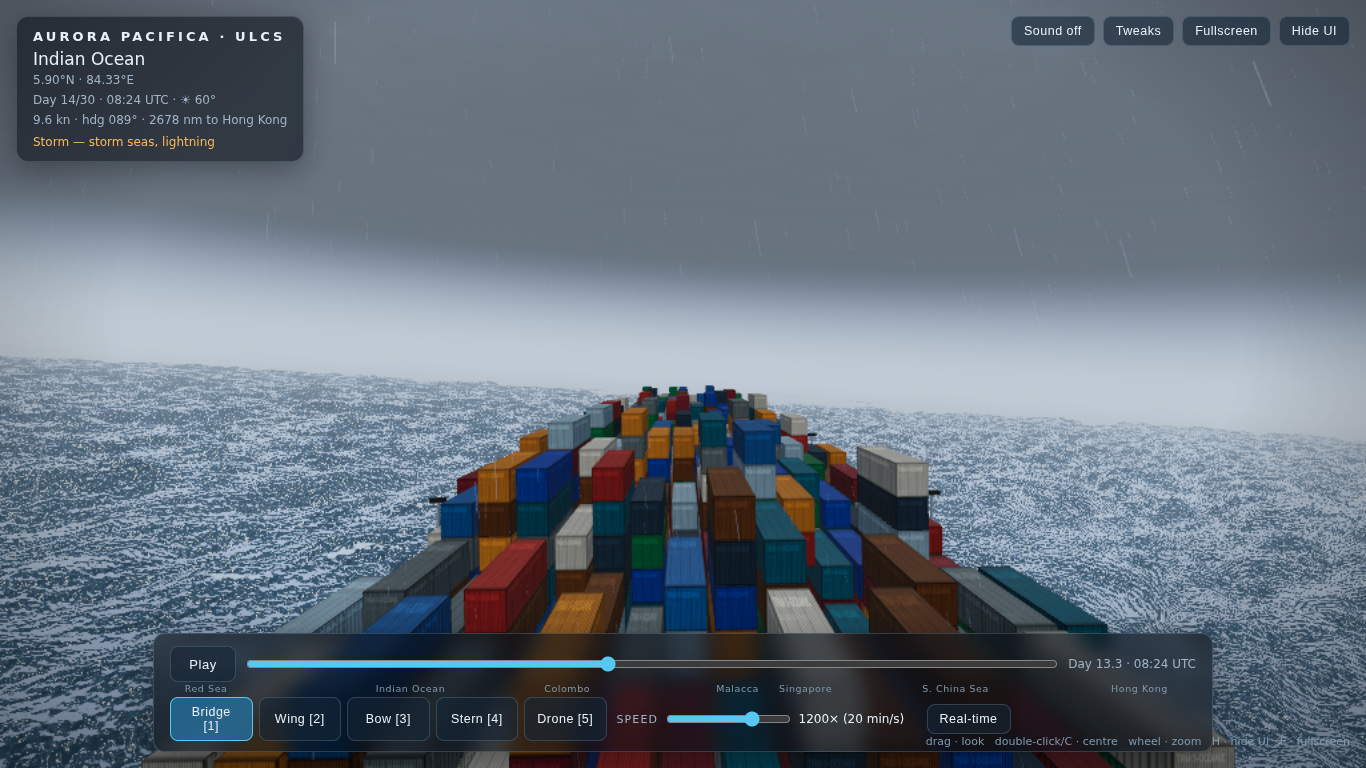
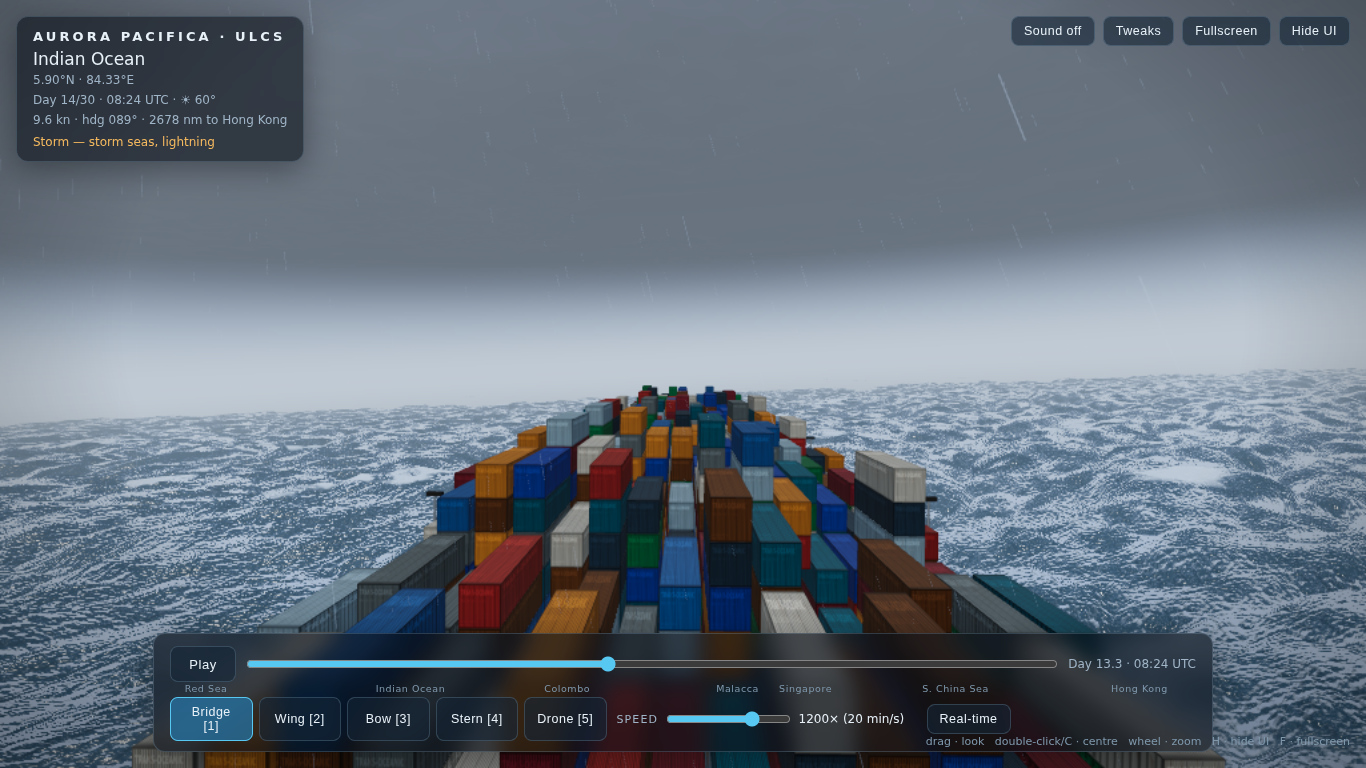
Fix depthTexture crash, tiling jumps, and ship/wave coupling
- Never toggle sun castShadow at runtime (three r180 ShadowNode
  shadowMap is null until setup; toggling crashed real-GPU sessions
  with 'reading depthTexture of null'). Gate with autoUpdate instead,
  and fall back to a plain render if post throws.
- Detail sampling is wrap-invariant again: exact 90-degree axis swap
  at scale 1 replaces the 1.37x resample that jumped on every scroll
  offset wrap; foam breakup uses unscaled octave-0 coords.
- Water now streams past the hull: frame-0 drift layer scrolled by
  travelled metres, bow-wave V, streamed prop wash.
- Ship rides the shader swell: shared src/sim/swell.js sampled at
  bow/stern/port/starboard for pitch/roll/heave; water inside the hull
  footprint follows ship heave; spray follows bow vertical velocity.
- Regression suite pins the shadow toggle and swell behaviour.

Changed region(s): [[0.0, 0.2812, 1.0, 1.0], [0.0, 0.25, 0.369, 0.4375], [0.3075, 0.9688, 0.5842, 1.0]]

diff --git a/src/gfx/ocean.js b/src/gfx/ocean.js
@@ -6,6 +6,7 @@ import {
   smoothstep, pow, exp, max, sin, cos, sqrt, length, fract, floor, abs,
   positionLocal, positionWorld, cameraPosition, varyingProperty, select,
 } from 'three/tsl';
+import { SWELL_WAVES } from '../sim/swell.js';
 
 export const ATLAS_N = 128, ATLAS_FRAMES = 64, ATLAS_GRID = 8, ATLAS_PERIOD = 16;
 // The bake's dominant wavelength is ~0.7 of a tile. These world tile sizes put
@@ -30,6 +31,8 @@ export function createOceanUniforms() {
     scatterColor: uniform(new THREE.Color(0.02, 0.16, 0.16)),
     foamAmt: uniform(1),
     wakeAmt: uniform(1),
+    travelM: uniform(0),      // metres travelled through the water (drift layer)
+    shipHeave: uniform(0),    // ship's heave, so water under the hull follows it
     seaTime: uniform(0),
   };
 }
@@ -106,6 +109,10 @@ export function createOcean(skyU, atmosphereFn, atlasTexture) {
     const fr = fract(U.framePhase);
     return mix(sampleFrame(sxz, tileM, f0), sampleFrame(sxz, tileM, f1), fr);
   });
+  // Frame-0 sample: a pattern frozen to the water itself. Scrolled by the
+  // ship's travelled distance it streams past the hull at ship speed, which
+  // is the cue that sells forward motion in open ocean.
+  const sampleStatic = Fn(([sxz, tileM]) => sampleFrame(sxz, tileM, float(0.0)));
 
   // Ship-frame xz -> sampled space (x east-ish, y forward), per octave.
   const toSampled = (xz, oct) => {
@@ -174,10 +181,7 @@ export function createOcean(skyU, atmosphereFn, atlasTexture) {
     const swellScale = float(0.45).add(U.fftBlend.mul(0.55))
       .mul(float(1.0).div(float(1.0).add(pow(dist.div(1800.0), 2.0))));
     const swellCoords = toSampled(local.xz, 0);
-    const swellWaves = [
-      [0.98, -0.20, 265, 0.34], [0.91, 0.42, 171, 0.21], [0.76, -0.65, 108, 0.12],
-    ];
-    for (const [dx, dz, wl, a] of swellWaves) {
+    for (const { dx, dz, wl, amp: a } of SWELL_WAVES) {
       const k = (2 * Math.PI) / wl, w = Math.sqrt(9.81 * k);
       const ph = swellCoords.x.mul(dx * k).add(swellCoords.y.mul(dz * k)).sub(U.seaTime.mul(w));
       hSum.addAssign(sin(ph).mul(a).mul(swellScale));
@@ -185,8 +189,14 @@ export function createOcean(skyU, atmosphereFn, atlasTexture) {
       dispS.addAssign(vec2(dx, dz).mul(cos(ph).mul(a * 0.55).mul(swellScale)));
     }
 
-    const h = hSum.mul(U.amp);
-    const dispShip = sampledVecToShip(dispS.mul(U.amp));
+    // Hull interaction: inside the hull footprint the surface is pulled to
+    // the ship's own heave (and chop is damped), so waves meet the hull at
+    // its waterline instead of poking through the sides and deck.
+    const hullMask = float(1.0).sub(smoothstep(30.0, 44.0, abs(local.x)))
+      .mul(smoothstep(-178.0, -164.0, local.z))
+      .mul(float(1.0).sub(smoothstep(164.0, 178.0, local.z)));
+    const h = mix(hSum.mul(U.amp), U.shipHeave, hullMask.mul(0.85));
+    const dispShip = sampledVecToShip(dispS.mul(U.amp).mul(float(1.0).sub(hullMask.mul(0.7))));
     const nS = normalize(vec3(slope.x.mul(U.amp).negate(), 1.0, slope.y.mul(U.amp).negate()));
     const nShip2 = sampledVecToShip(vec2(nS.x, nS.z));
     vNorm.assign(normalize(vec3(nShip2.x, nS.y, nShip2.y)));
@@ -201,25 +211,41 @@ export function createOcean(skyU, atmosphereFn, atlasTexture) {
     const dist = length(viewVec);
     const V = normalize(viewVec);
 
-    // Per-pixel micro detail from the smallest FFT octave, sampled twice
-    // (rotated) so tiling never reads as a regular dot/stipple pattern.
+    // Per-pixel micro detail from the two smaller FFT octaves. The second
+    // sample is the 76 m octave with axes swapped (an exact 90-degree
+    // rotation at scale 1): resampling wrapped coordinates by a
+    // non-integer factor (the old 1.37x) broke tile periodicity and made
+    // the detail jump every time the scroll offset wrapped.
     const sxz = toSampled(wp.xz, 2);
     const epsD = float(0.45);
     const hc = sampleFFT(sxz, tiles[2]);
     const hx = sampleFFT(sxz.add(vec2(epsD, 0.0)), tiles[2]);
     const hz = sampleFFT(sxz.add(vec2(0.0, epsD)), tiles[2]);
-    const sxzR = vec2(sxz.y, sxz.x.negate()).mul(1.37).add(vec2(31.7, 11.3));
-    const hcR = sampleFFT(sxzR, tiles[2]);
-    const hxR = sampleFFT(sxzR.add(vec2(epsD, 0.0)), tiles[2]);
-    const hzR = sampleFFT(sxzR.add(vec2(0.0, epsD)), tiles[2]);
     const slopeA = vec2(hx.r.sub(hc.r), hz.r.sub(hc.r)).div(epsD);
-    const slopeB = vec2(hzR.r.sub(hcR.r), hxR.r.sub(hcR.r).negate()).div(epsD);
-    const mSlopeS = slopeA.add(slopeB.mul(0.8))
+    const sxz1 = toSampled(wp.xz, 1);
+    const sxzR = vec2(sxz1.y, sxz1.x.negate()).add(vec2(31.7, 11.3));
+    const eps1 = float(2.4);
+    const hcR = sampleFFT(sxzR, tiles[1]);
+    const huR = sampleFFT(sxzR.add(vec2(eps1, 0.0)), tiles[1]);
+    const hvR = sampleFFT(sxzR.add(vec2(0.0, eps1)), tiles[1]);
+    // u = sampled-y, v = -sampled-x  =>  dh/dx = -dh/dv, dh/dy = dh/du.
+    const slopeB = vec2(hvR.r.sub(hcR.r).negate(), huR.r.sub(hcR.r)).div(eps1);
+    const mSlopeS = slopeA.add(slopeB.mul(0.55))
       .mul(OCTAVE_WEIGHTS[2] * 1.7).mul(U.amp).mul(U.fftBlend);
     const mSlope = sampledVecToShip(mSlopeS);
-    const detFade = float(1.0).div(float(1.0).add(dist.div(300.0)));
+    // Advected drift detail: frame-0 pattern scrolled by travelled metres,
+    // so surface texture streams astern past the hull at ship speed.
+    const dCoord = vec2(wp.x, wp.z.sub(U.travelM));
+    const epsDrift = float(1.6);
+    const dcS = sampleStatic(dCoord, tiles[1]);
+    const dxS = sampleStatic(dCoord.add(vec2(epsDrift, 0.0)), tiles[1]);
+    const dzS = sampleStatic(dCoord.add(vec2(0.0, epsDrift)), tiles[1]);
+    const driftSlope = vec2(dxS.r.sub(dcS.r), dzS.r.sub(dcS.r)).div(epsDrift)
+      .mul(0.30).mul(U.fftBlend);
+    const detFade = float(1.0).div(float(1.0).add(pow(dist.div(220.0), 1.5)));
     const N = normalize(vNorm.add(vec3(
-      mSlope.x.negate().mul(detFade), 0.0, mSlope.y.negate().mul(detFade))));
+      mSlope.x.add(driftSlope.x).negate().mul(detFade), 0.0,
+      mSlope.y.add(driftSlope.y).negate().mul(detFade))));
 
     const L = skyU.sunDir;
     const NdotV = clamp(dot(N, V), 0.0, 1.0);
@@ -256,7 +282,7 @@ export function createOcean(skyU, atmosphereFn, atlasTexture) {
       .add(skyCol.mul(fres)).add(spec).add(moonSpec).add(scatter);
 
     // ---- Foam: Jacobian folding + crest breakup (wind-stretched) --------
-    const hcF = sampleFFT(vec2(sxz.x.mul(0.6), sxz.y.mul(0.22)), tiles[2]);
+    const hcF = sampleFFT(toSampled(wp.xz, 0), tiles[0]);
     const noiseBreak = clamp(hcF.r.mul(0.34).add(hcR.r.mul(0.14)).add(0.5), 0.0, 1.15);
     // Baked J assumes unit amplitude; compression deepens as chop is scaled.
     const jEff = float(1.0).sub(float(1.0).sub(vFoamJ).mul(clamp(U.amp, 0.15, 2.4)));
@@ -291,8 +317,18 @@ export function createOcean(skyU, atmosphereFn, atlasTexture) {
     const bowDist = length(wp.xz.sub(vec2(0.0, -158.0)));
     const spray = exp(bowDist.mul(-0.020)).mul(U.wakeAmt)
       .mul(clamp(U.amp.mul(0.55), 0.1, 1.1)).mul(clamp(wakeNoise, 0.3, 1.1));
+    // Bow wave: V arms opening astern from the stem (~19 degrees), broken
+    // up by the advected drift pattern so foam streams along the hull.
+    const bz = wp.z.add(165.0);
+    const bowArmCenter = float(4.0).add(max(bz, 0.0).mul(0.32));
+    const bowArm = float(1.0).sub(smoothstep(2.0, float(10.0).add(max(bz, 0.0).mul(0.02)),
+        abs(hxAbs.sub(bowArmCenter))))
+      .mul(exp(max(bz, 0.0).mul(-0.004)))
+      .mul(smoothstep(0.0, 12.0, bz))
+      .mul(float(1.0).sub(smoothstep(300.0, 360.0, bz)))
+      .mul(clamp(dcS.r.mul(0.5).add(0.75), 0.25, 1.1));
     foam = clamp(foam.add(wake.mul(U.wakeAmt)).add(hullBand.mul(U.wakeAmt).mul(0.85))
-      .add(spray.mul(0.8)), 0.0, 1.0);
+      .add(spray.mul(0.8)).add(bowArm.mul(U.wakeAmt).mul(0.55)), 0.0, 1.0);
 
     const foamCol = skyU.ambient.mul(1.5).add(skyU.sunColor.mul(0.05).mul(NdotL))
       .add(vec3(0.5, 0.55, 0.7).mul(skyU.lightning).mul(0.8));

diff --git a/src/main.js b/src/main.js
@@ -11,6 +11,7 @@ import { sunPosition, moonPosition, enuDirToShipFrame, enuOffsetToShipFrame } fr
 import { sampleWeather, lightningPulse } from './sim/weather.js';
 import { buildTraffic, trafficAt } from './sim/traffic.js';
 import { motionAt, significantHeightM, BAKE_HS_M } from './sim/shipMotion.js';
+import { swellHeight } from './sim/swell.js';
 import { createSkyUniforms, createSkyDome, makePlaceholderVolume } from './gfx/sky.js';
 import { createOcean, makePlaceholderAtlas, ATLAS_FRAMES, ATLAS_PERIOD } from './gfx/ocean.js';
 import { buildShip, SHIP } from './gfx/ship.js';
@@ -45,6 +46,11 @@ scene.add(camera);
 
 const sunLight = new THREE.DirectionalLight(0xffffff, 3);
 sunLight.castShadow = true;
+// Never toggle castShadow at runtime: three r180 recreates the light's
+// ShadowNode on light-state changes and its shadowMap starts null, which
+// can crash a frame with "reading 'depthTexture' of null" on real GPUs.
+// Gate the shadow pass cost through autoUpdate/needsUpdate instead.
+sunLight.shadow.autoUpdate = false;
 sunLight.shadow.mapSize.set(2048, 2048);
 Object.assign(sunLight.shadow.camera, { left: -210, right: 210, top: 210, bottom: -210, near: 50, far: 1800 });
 sunLight.shadow.bias = -0.0006;
@@ -191,6 +197,7 @@ const oceanOff = [new THREE.Vector2(), new THREE.Vector2(), new THREE.Vector2()]
 const OCT_TILES_JS = [340, 76, 10];
 let smoothedSea = 3, smoothedLightning = 0, lastThunderPulse = 0;
 let seaTime = 0, elapsed = 0, fftBlendStart = -1;
+let travelM = 0, prevBowH = 0, bowVelSm = 0;
 
 // ENU direction of a compass course -> ship-frame rotation helpers.
 function courseRotY(courseDeg, headingDeg) {
@@ -268,7 +275,7 @@ function updateWorld(dt) {
   sunLight.color.copy(useMoon ? _c2.setRGB(0.62, 0.7, 0.9) : _c1);
   sunLight.intensity = useMoon ? 0.35 * moonI + 0.02
     : (Math.pow(sunVis, 0.7) * 3.1 + pal.duskF * 0.25) * cloudDim;
-  sunLight.castShadow = sunLight.intensity > 0.04;
+  sunLight.shadow.needsUpdate = sunLight.intensity > 0.04;
   hemi.color.copy(skyU.ambient.value).multiplyScalar(2.4);
   hemi.groundColor.copy(skyU.fogColor.value).multiplyScalar(0.7);
   hemi.intensity = 0.35 + pal.dayF * 0.7 + pal.nightF * 0.05;
@@ -316,7 +323,6 @@ function updateWorld(dt) {
   oU.amp.value = clamp(hs / BAKE_HS_M, 0.03, 3.4);
   oU.rough.value = clamp(0.055 + wx.windKt * 0.0042 + wx.rain * 0.05, 0.05, 0.34);
   oU.foamAmt.value = state.foam * clamp((smoothedSea - 1.5) / 6, 0.08, 1.6);
-  oU.wakeAmt.value = clamp(shipState.speedKn / 12, 0, 1.2);
   mix3(oU.deepColor.value, PAL.deepNight, PAL.deepNight, PAL.deepDay, pal);
   oU.scatterColor.value.copy(PAL.scatterDay).multiplyScalar(pal.dayF * cloudDim);
   // Sampled-space rotation aligns baked wind (0.32 rad) with world wind.
@@ -327,12 +333,40 @@ function updateWorld(dt) {
     oceanOff[o].y = (oceanOff[o].y + speedMS * seaDt) % OCT_TILES_JS[o];
     oU[['off0', 'off1', 'off2'][o]].value.copy(oceanOff[o]);
   }
+  travelM += speedMS * seaDt;
+  oU.travelM.value = travelM;
 
-  // Ship motion on the sea clock; the user's wave-height scale rides along.
+  // Ship motion: generic response blended with the actual swell train the
+  // shader displaces (same sampled-space transform as ocean.js toSampled,
+  // octave 0), sampled at bow/stern/port/starboard so the hull visibly
+  // rides the waves passing under it instead of ignoring them.
   const motionSea = clamp(smoothedSea * (0.8 + 0.3 * state.waveScale), 0, 9.5);
   const mot = motionAt(seaTime, motionSea, shipState.speedKn);
-  ship.group.rotation.set(rad(mot.pitchDeg), rad(mot.yawDeg), rad(mot.rollDeg));
-  ship.group.position.y = mot.heaveM;
+  const rot = oU.rotCS.value;
+  const swellScaleJs = (0.45 + 0.55 * oU.fftBlend.value) * oU.amp.value;
+  const swellAt = (lx, lz) => {
+    const fx = lx, fy = -lz;
+    const sx = fx * rot.x - fy * rot.y + oceanOff[0].x;
+    const sy = fx * rot.y + fy * rot.x + oceanOff[0].y;
+    return swellHeight(sx, sy, seaTime) * swellScaleJs;
+  };
+  const hBow = swellAt(0, -140), hStern = swellAt(0, 140);
+  const hPort = swellAt(-24, 0), hStbd = swellAt(24, 0);
+  const waveHeave = (hBow + hStern + hPort + hStbd) / 4;
+  const wavePitchDeg = Math.atan2(hBow - hStern, 280) * 180 / Math.PI;
+  const waveRollDeg = Math.atan2(hStbd - hPort, 48) * 180 / Math.PI;
+  ship.group.rotation.set(
+    rad(mot.pitchDeg * 0.55 + wavePitchDeg * 0.75),
+    rad(mot.yawDeg),
+    rad(mot.rollDeg * 0.55 + waveRollDeg * 0.75));
+  ship.group.position.y = mot.heaveM * 0.5 + waveHeave * 0.55;
+  oU.shipHeave.value = ship.group.position.y;
+  // Bow spray/wake strength follows how hard the bow is working.
+  const bowVel = dt > 0.001 ? (hBow - prevBowH) / dt : 0;
+  prevBowH = hBow;
+  bowVelSm = lerp(bowVelSm, bowVel, 0.08);
+  oU.wakeAmt.value = clamp(shipState.speedKn / 12, 0, 1.2)
+    * (0.75 + Math.min(Math.abs(bowVelSm) * 0.35, 0.9));
   ship.radar.rotation.y = seaTime * 1.4;
   ship.group.updateMatrixWorld(true);
 
@@ -624,7 +658,7 @@ function updateHUD(dt, frame) {
 }
 
 // ---------- boot + main loop ----------
-let lastT = performance.now(), firstFrames = 0;
+let lastT = performance.now(), firstFrames = 0, lastRenderErrLog = 0;
 function loop(now) {
   requestAnimationFrame(loop);
   // Wall-clock delta (generous cap only for tab suspension). A tight 50 ms
@@ -633,7 +667,20 @@ function loop(now) {
   lastT = now;
   const frame = updateWorld(dt);
   updateHUD(dt, frame);
-  post.render();
+  // A transient post-processing failure must not black-screen the voyage:
+  // fall back to a plain render for that frame and keep sailing.
+  try {
+    post.render();
+  } catch (err) {
+    const nowMs = performance.now();
+    if (nowMs - lastRenderErrLog > 5000) {
+      lastRenderErrLog = nowMs;
+      console.error('Post-processing frame failed; rendering without it:', err);
+    }
+    try { renderer.render(scene, camera); } catch (err2) {
+      if (nowMs - lastRenderErrLog > 5000) console.error('Fallback render failed:', err2);
+    }
+  }
   // Loader stays until the FFT bake lands (hides the fallback-sea swap),
   // with a hard cap so a failed bake never traps the user on it.
   if (firstFrames < 10000) {

diff --git a/src/sim/swell.js b/src/sim/swell.js
@@ -1,0 +1,21 @@
+// Coherent swell train shared by the ocean shader (src/gfx/ocean.js builds
+// its TSL loop from SWELL_WAVES) and the CPU ship-motion coupling in
+// src/main.js, so the ship rides the same waves the player sees.
+// Coordinates are sampled space: x = starboard-ish, y = forward (metres).
+export const SWELL_WAVES = [
+  { dx: 0.98, dz: -0.20, wl: 265, amp: 0.34 },
+  { dx: 0.91, dz: 0.42, wl: 171, amp: 0.21 },
+  { dx: 0.76, dz: -0.65, wl: 108, amp: 0.12 },
+];
+
+const G = 9.81;
+
+// Swell height (metres, at unit ocean amplitude) at sampled point (sx, sy).
+export function swellHeight(sx, sy, tSec) {
+  let h = 0;
+  for (const w of SWELL_WAVES) {
+    const k = (2 * Math.PI) / w.wl;
+    h += w.amp * Math.sin((w.dx * sx + w.dz * sy) * k - Math.sqrt(G * k) * tSec);
+  }
+  return h;
+}

diff --git a/DEVLOG.md b/DEVLOG.md
@@ -161,3 +161,40 @@ maximum storm from drone and bridge, phone layout).
   (full resolution, 32 cloud steps, bloom) is the default for the user's
   RTX 3080 at 4K; Balanced (75% scale, 22 steps) and Performance (55%, 14
   steps, no bloom) are one click away in Tweaks.
+
+## Follow-up — field reports from the 3080
+
+Three reports came back from real hardware: the ship did not read as
+moving, waves ignored the hull, the water texture tiled visibly and
+jumped, and one session died with
+`Cannot read properties of null (reading 'depthTexture')`.
+
+- **Crash:** we toggled `sunLight.castShadow` every frame on an intensity
+  threshold. In three r180 that recreates the light's ShadowNode, whose
+  `shadowMap` is null until first setup; `updateShadow` then dereferences
+  `shadowMap.depthTexture`. It never fired on the software renderer but is
+  a real-GPU race at dawn/dusk crossings. `castShadow` is now assigned
+  once; the pass is gated with `shadow.autoUpdate = false` +
+  `needsUpdate`. The render loop also falls back to a plain render for a
+  frame if post-processing throws, instead of black-screening. Pinned by
+  `tests/regressions.test.mjs`.
+- **Jumping detail:** the rotated micro-detail sample resampled wrapped
+  scroll coordinates by 1.37×, which breaks tile periodicity — every time
+  an offset wrapped (~1.6 s at cruise) the detail field jumped. The second
+  detail layer is now an exact 90° axis swap of the 76 m octave, and the
+  foam breakup no longer uses anisotropically scaled wrapped coordinates.
+- **No sense of motion:** the only surface detail was wave phase, which
+  propagates at wave speed, not ship speed. A frame-0 "drift" layer is now
+  scrolled by travelled metres, so texture streams astern past the hull at
+  exactly ship speed; a bow-wave V and streamed prop wash use the same
+  advected pattern.
+- **Waves ignored the boat:** ship pitch/roll/heave now sample the very
+  swell train the vertex shader displaces (shared `src/sim/swell.js`) at
+  bow/stern/port/starboard, water inside the hull footprint is pulled to
+  the ship's heave so waves meet the waterline instead of clipping through
+  the hull, and bow spray follows bow vertical velocity.
+
+Verified with paired storm screenshots seconds apart (horizon roll and
+hull-side streaming both visible frame-to-frame), a day/night + resize +
+quality-cycle stress run with zero console errors, the full unit suites,
+and a clean `--final` browser pass before redeploying.

diff --git a/README.md b/README.md
@@ -65,6 +65,7 @@ Red Sea dawn and loops after Hong Kong.
 ## Tests
 
 ```bash
-node tests/sim.test.mjs   # route, solar, weather, traffic, motion
-node tests/fft.test.mjs   # FFT calibration (Hs), determinism, bake timing
+node tests/sim.test.mjs         # route, solar, weather, traffic, motion
+node tests/fft.test.mjs         # FFT calibration (Hs), determinism, bake timing
+node tests/regressions.test.mjs # depthTexture crash guard, shared swell
 ```
